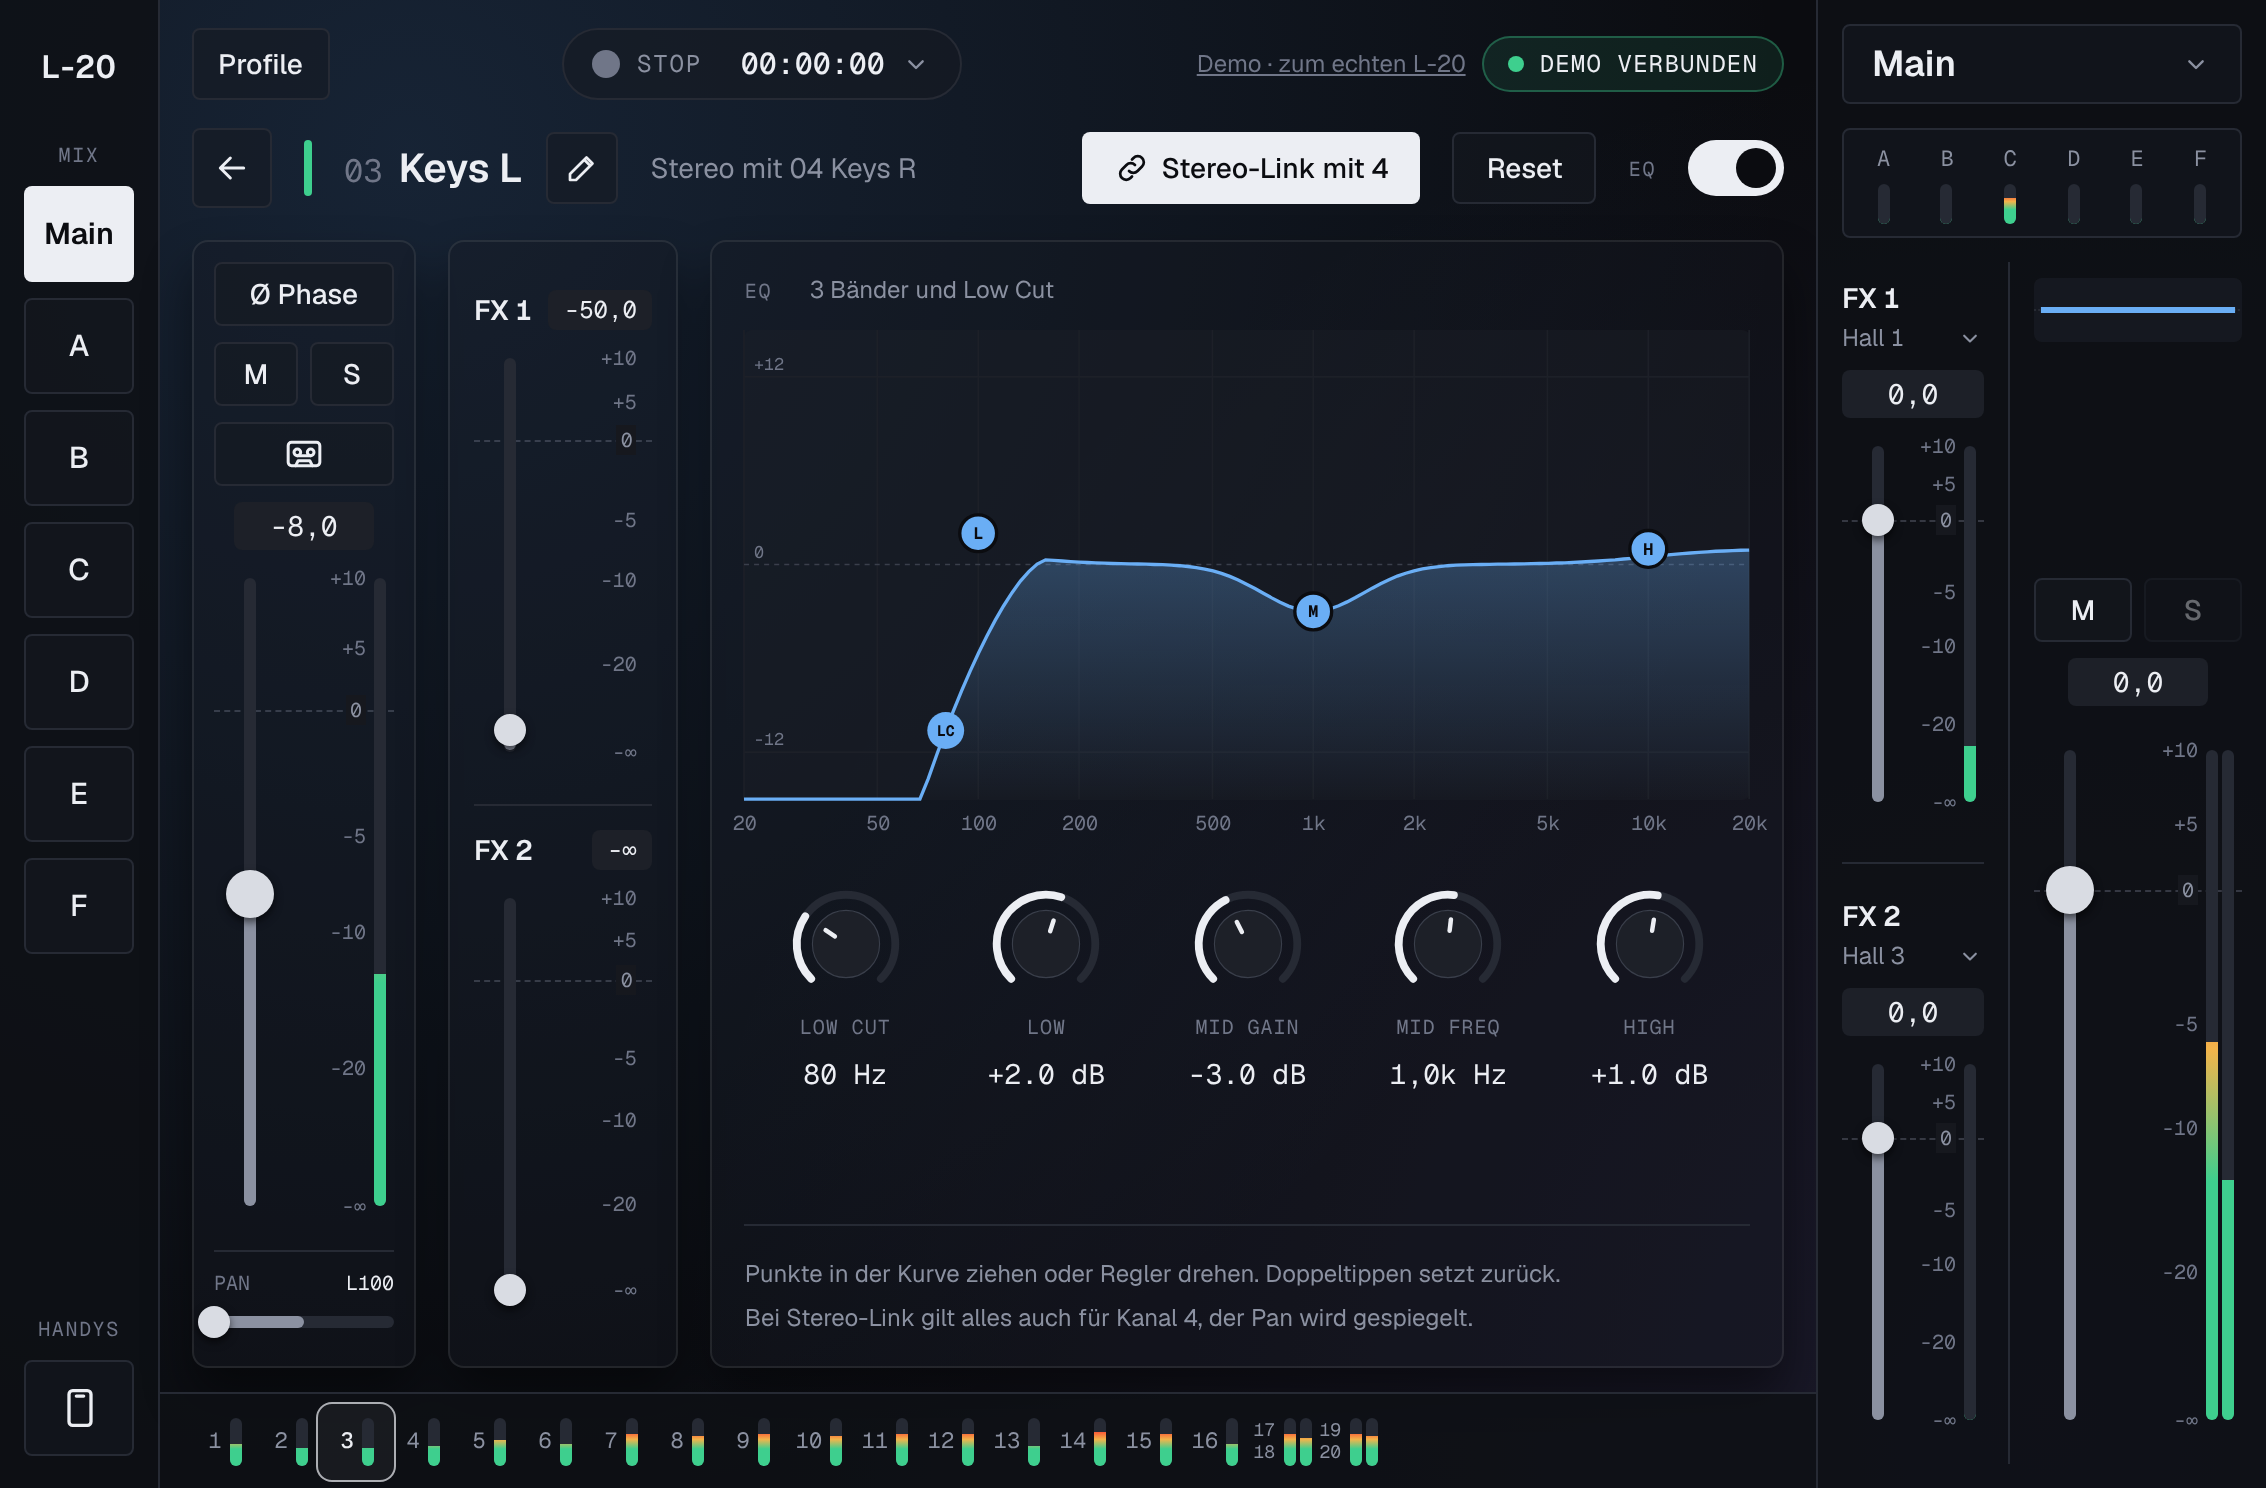
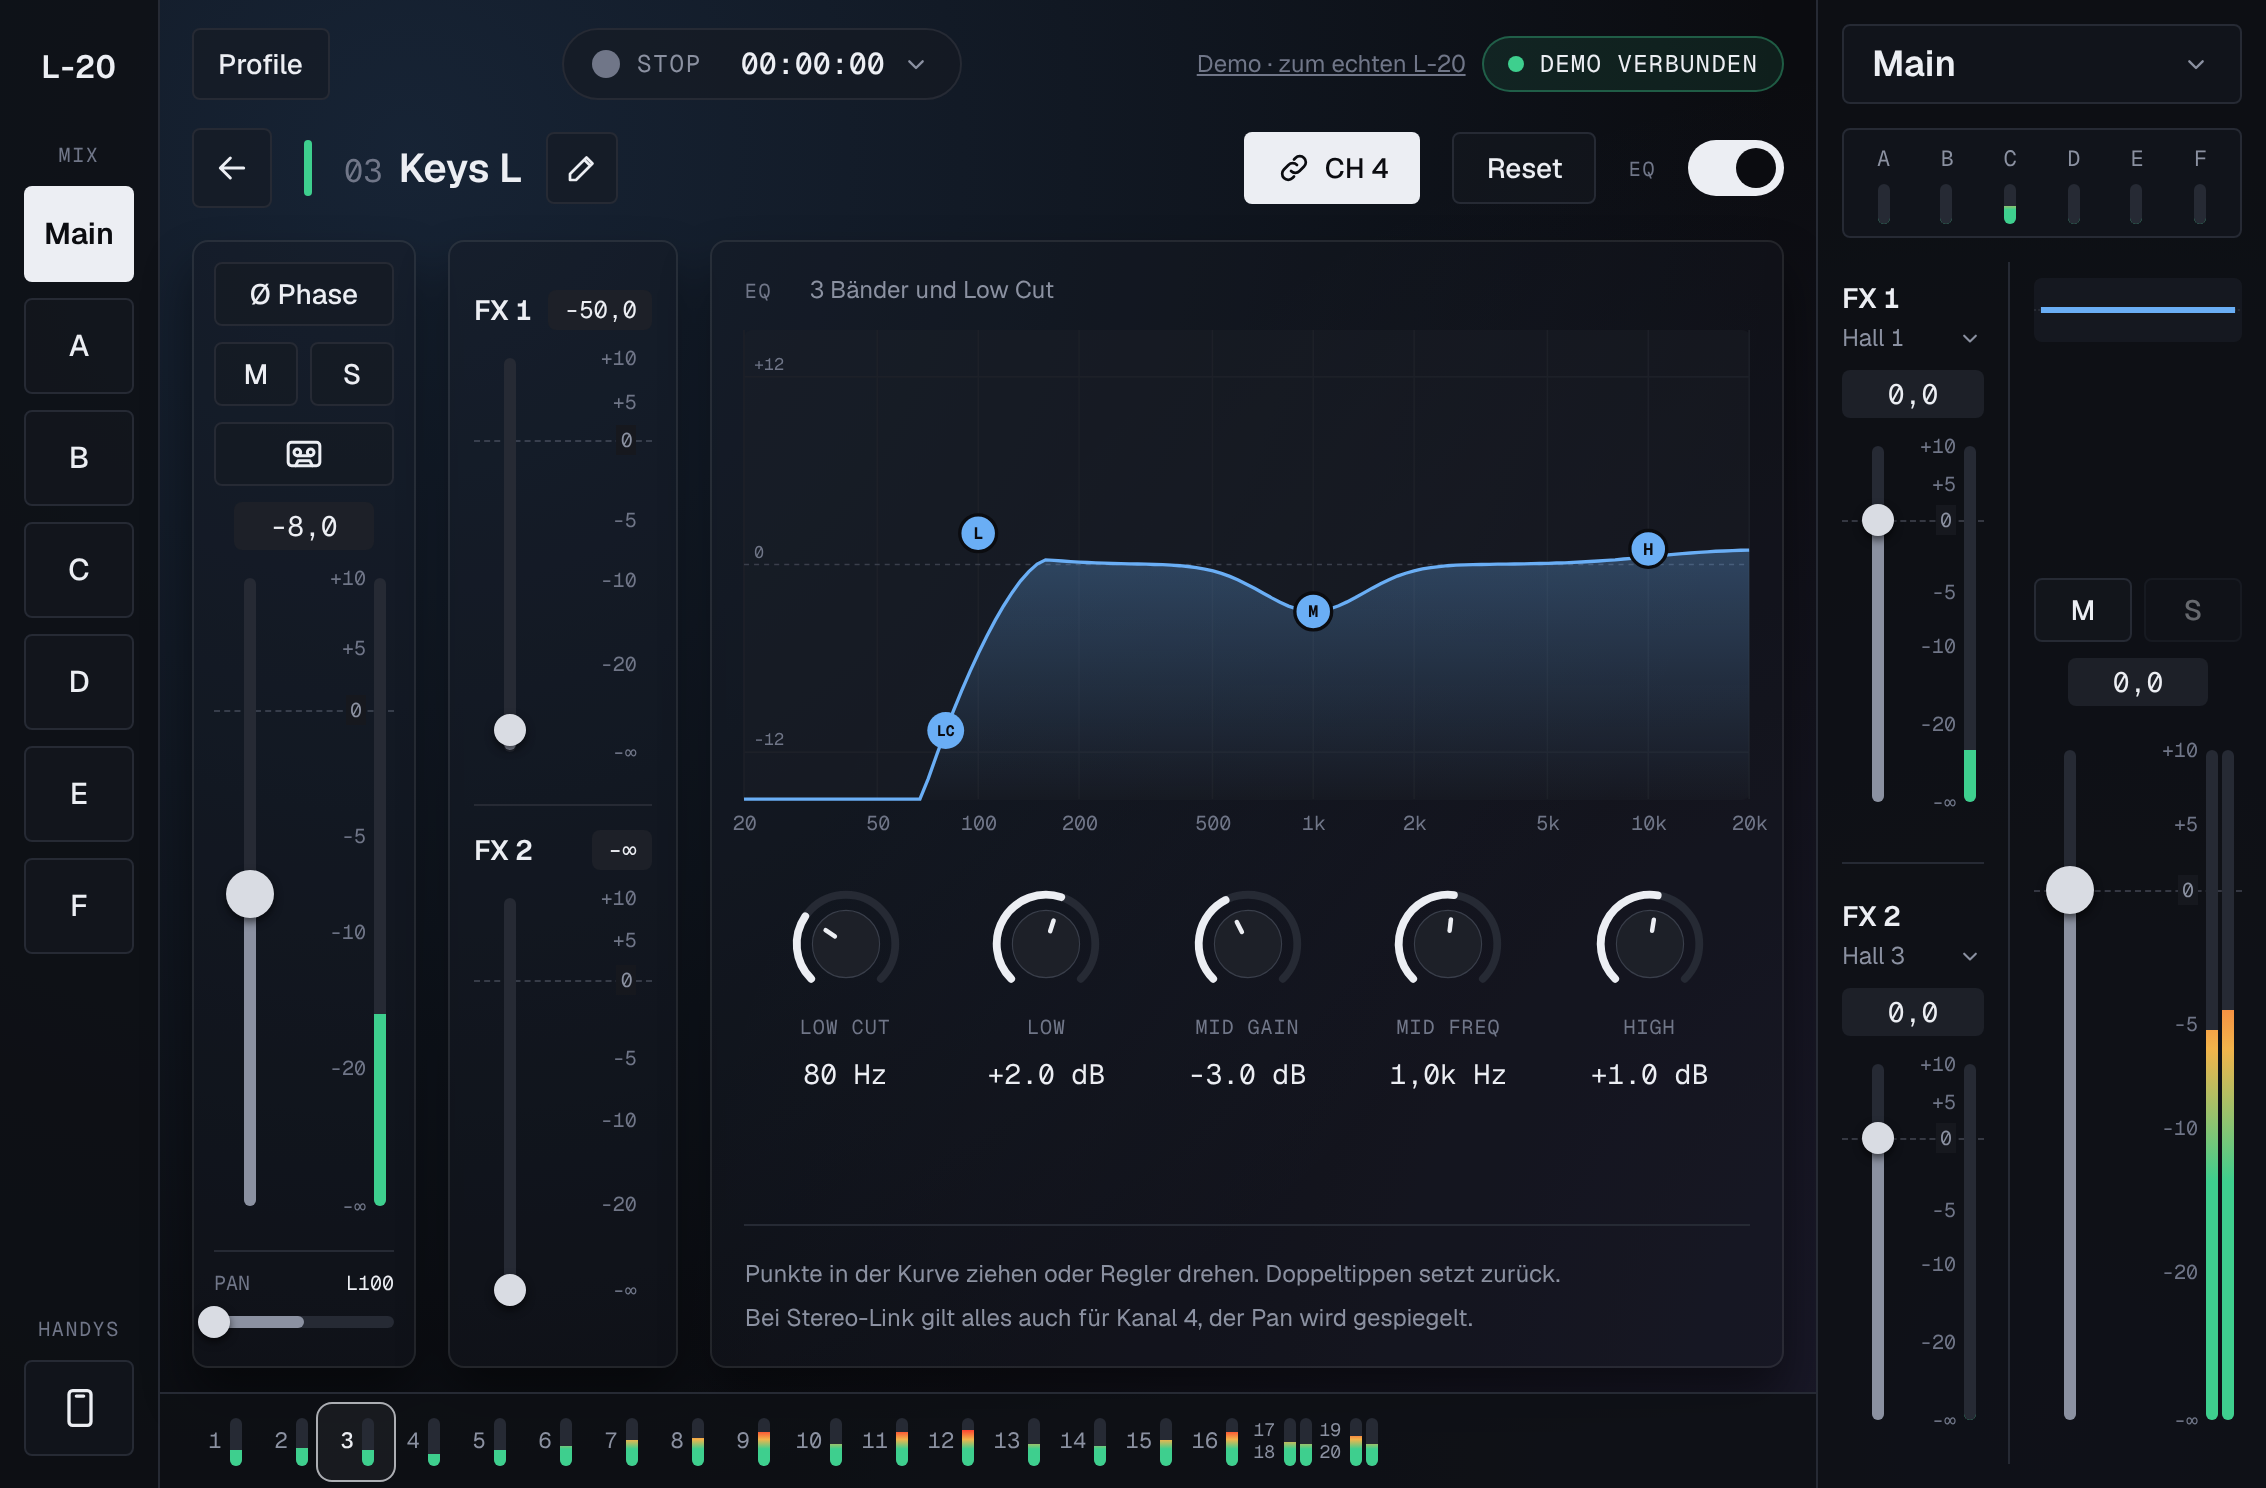
Kanal-Detail: Stereo-Info weg, aktiver Link-Knopf zeigt nur „CH n“
Claude-Session: https://claude.ai/code/session_01KbLEHxzsxzao1e8PDLg9ed

diff --git a/src/ui/screens/ChannelDetail.tsx b/src/ui/screens/ChannelDetail.tsx
@@ -73,21 +73,17 @@ export function ChannelDetail({ ch, onBack }: { ch: number; onBack: () => void }
         <Btn className="-ml-1 size-9" aria-label="Bearbeiten" onClick={() => setEditing(true)}>
           <Icon name="edit" />
         </Btn>
-        {partner && !fixed && (
-          <span className="text-fg2 text-sm">
-            Stereo mit {channelNo(partner.id)} {partner.name}
-          </span>
-        )}
         {fixed && <span className="text-fg2 text-sm">Stereo-Eingang</span>}
         <div className="-mx-2 flex-1" />
         <Btn
           kind={partner ? 'on' : 'plain'}
           className={cn('h-9 px-4', fixed && 'hidden')}
+          aria-label={partner ? `Stereo-Link mit Kanal ${partner.id} lösen` : undefined}
           disabled={!link}
           onClick={() => link && dispatch(link)}
         >
           <Icon name="link" />
-          {partner ? `Stereo-Link mit ${partner.id}` : 'Stereo-Link'}
+          {partner ? `CH ${partner.id}` : 'Stereo-Link'}
         </Btn>
         <Btn className="h-9 px-4" onClick={() => eq(FLAT)}>
           Reset
